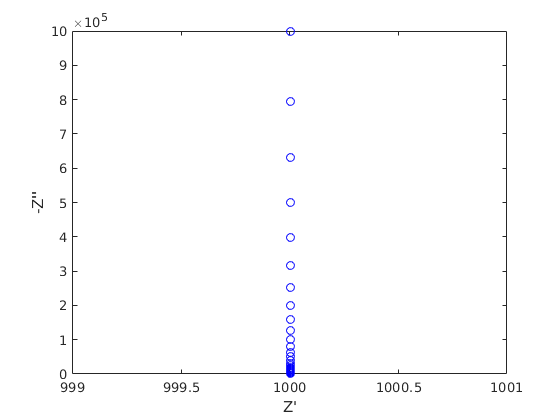
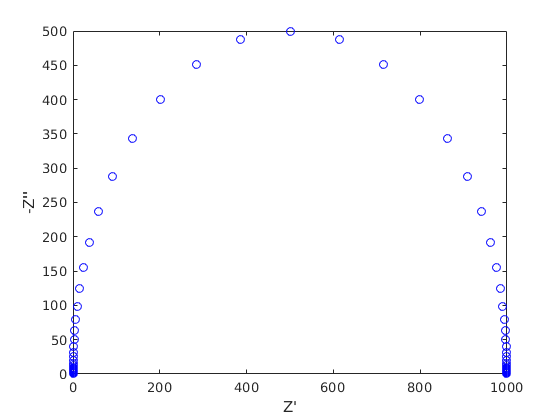
pomiar3_symulacja

diff --git a/skrypcik_symulacje_wynikow.m b/skrypcik_symulacje_wynikow.m
@@ -2,10 +2,10 @@ clc;
 clear;
 
 % modules = input("Give a string ", 's');
-modules='PP';
+modules='P';
 
 % parameters = input("Give parameters in square brackets (P = R C) ");
-parameters=[ 3, -9, 3, -4 ];
+parameters=[ 3, -6 ];
 lb = [];
 ub = [];
 
@@ -82,25 +82,25 @@ vector_of_parameter = sumOfZZ;
 
 % Nyquist
 
-% plot(real(sumOfZZ),-imag(sumOfZZ),'bo')
-% xlabel("Z'")
-% ylabel("-Z''")
+plot(real(sumOfZZ),-imag(sumOfZZ),'bo')
+xlabel("Z'")
+ylabel("-Z''")
 
 % Bode
+% % 
+% module = sqrt((real(sumOfZZ)).^2 + (imag(sumOfZZ)).^2);
+% subplot(2,1,1);
+% plot(log10(w/(2*pi)), log10(module), 'bo');
+% xlabel("log(f)")
+% ylabel("log(|Z|)")
+
+
 % 
-module = sqrt((real(sumOfZZ)).^2 + (imag(sumOfZZ)).^2);
-subplot(2,1,1);
-plot(log10(w/(2*pi)), log10(module), 'bo');
-xlabel("log(f)")
-ylabel("log(|Z|)")
-
-
-
-phase = atan((imag(sumOfZZ))./real(sumOfZZ));
-subplot(2,1,2);
-plot(log10(w/(2*pi)), phase, 'bo');
-xlabel("log(f)")
-ylabel("\phi")
+% phase = atan((imag(sumOfZZ))./real(sumOfZZ));
+% subplot(2,1,2);
+% plot(log10(w/(2*pi)), phase, 'bo');
+% xlabel("log(f)")
+% ylabel("\phi")
 
 
 function ZC = getZfromC(C,w)
